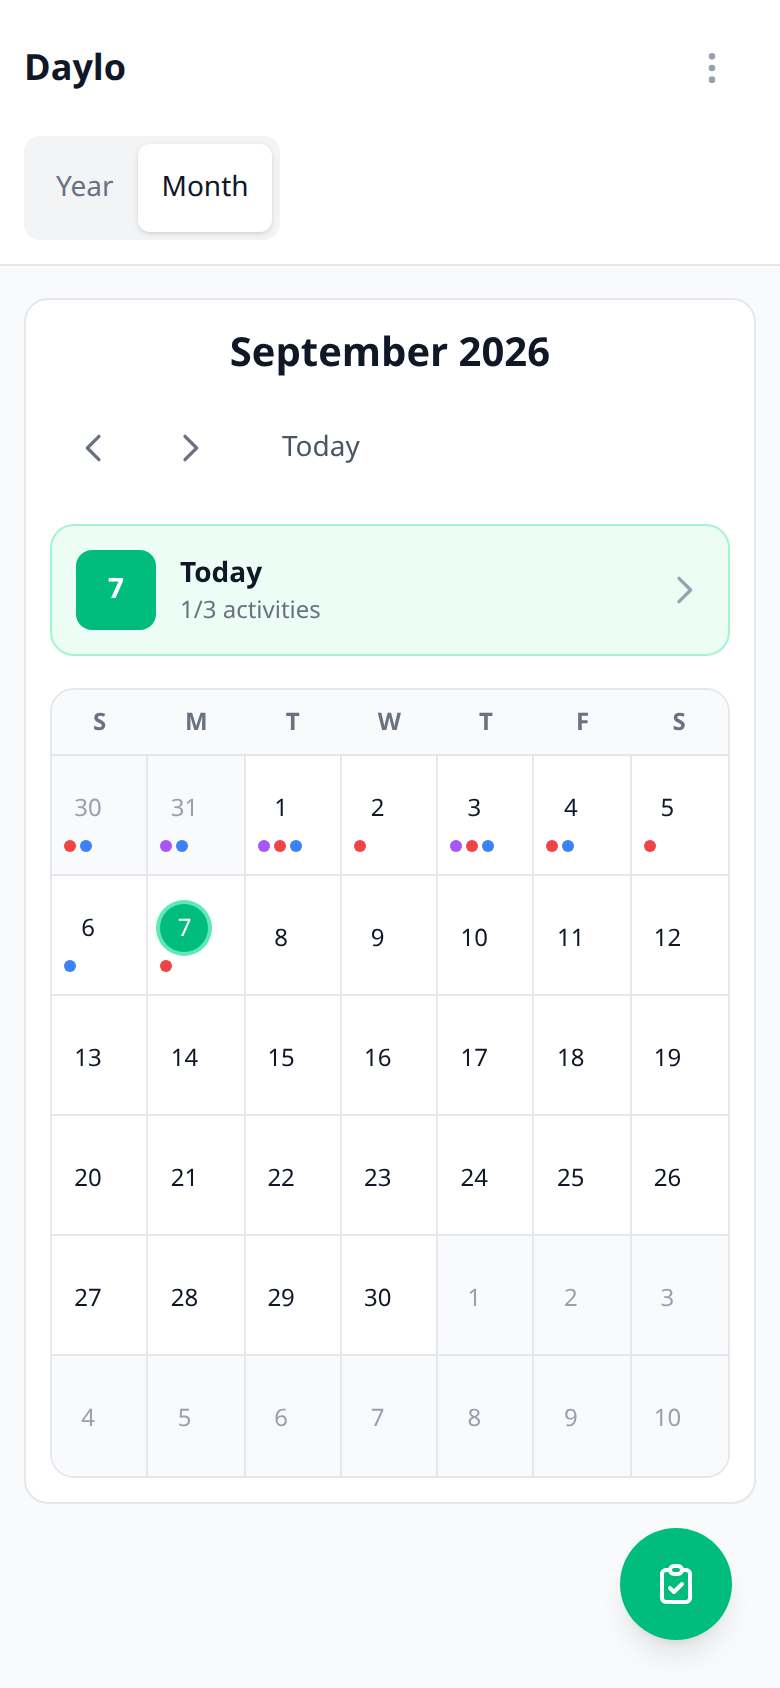
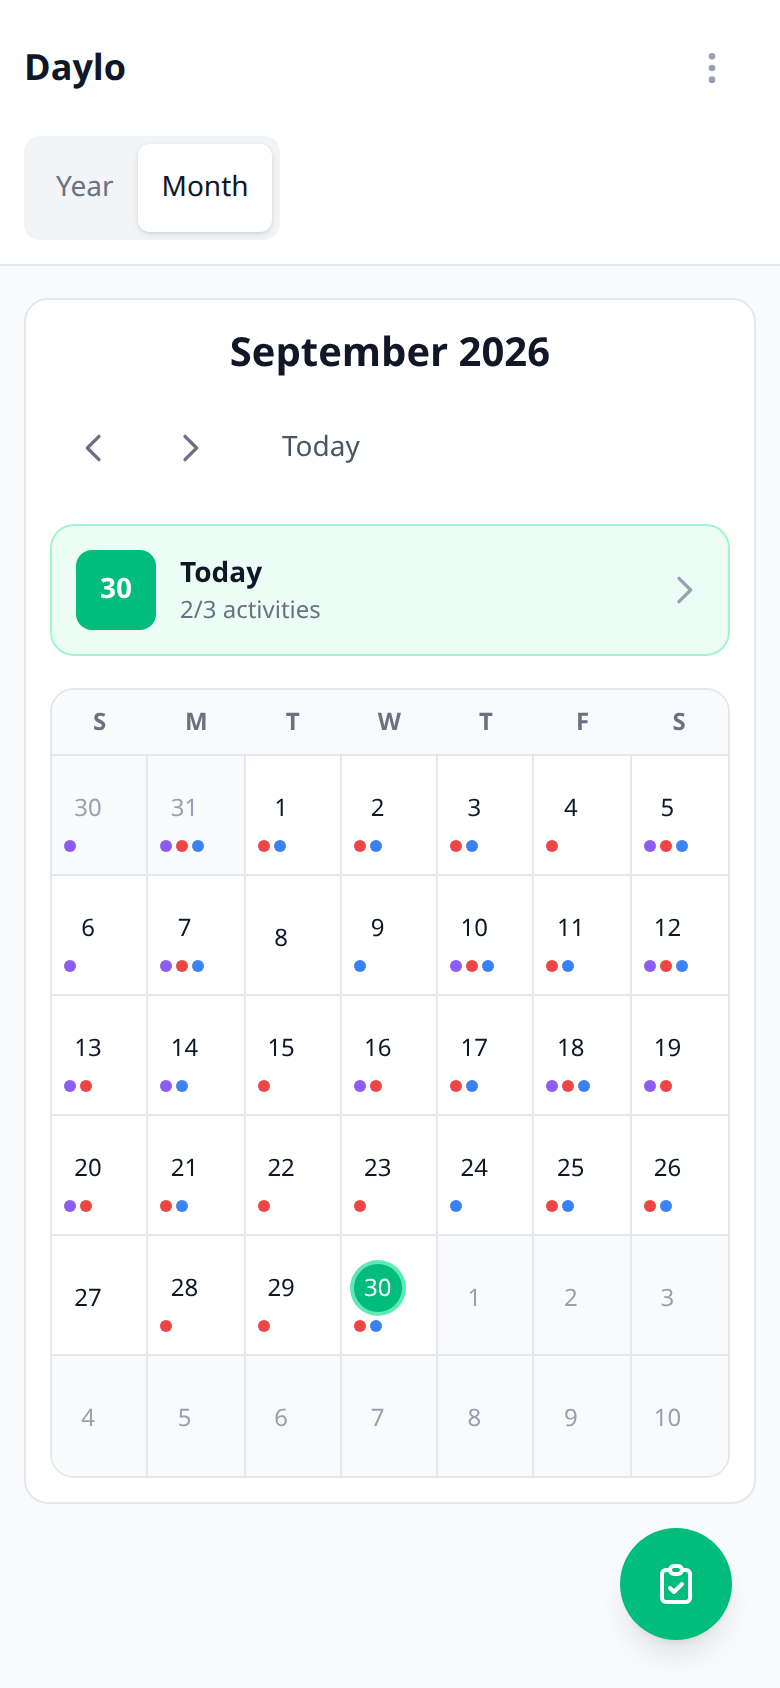
Show the app as it is now in the README
The three screenshots were from 1.1.1, before the year view was redrawn: twelve month heatmaps instead of the strip of days and the All activities / By activity toggle. Retaken against the 1.4.0 web build with the same sample data as before, brought up to today, plus one of the year by activity. The Flathub metainfo said twelve heatmaps too.

diff --git a/README.md b/README.md
@@ -41,9 +41,16 @@ Your data stays on your device. No account, and nothing you track is ever upload
 ## Screenshots
 
 <p align="center">
-  <img src="docs/daylo-year-view.png" alt="Year view: twelve month heatmaps next to your activities and statistics" width="100%" />
+  <img src="docs/daylo-year-view.png" alt="Year view: the whole year as one strip of days, with each month's completion underneath, next to your activities and statistics" width="100%" />
 </p>
 <p align="center"><sub>Year view. See your entire year at a glance.</sub></p>
+
+<br/>
+
+<p align="center">
+  <img src="docs/daylo-year-by-activity.png" alt="Year view by activity: one strip of days per habit, each in its own color, and all of them together at the bottom" width="100%" />
+</p>
+<p align="center"><sub>By activity. Each habit gets its own strip, in its own color.</sub></p>
 
 <br/>
 
